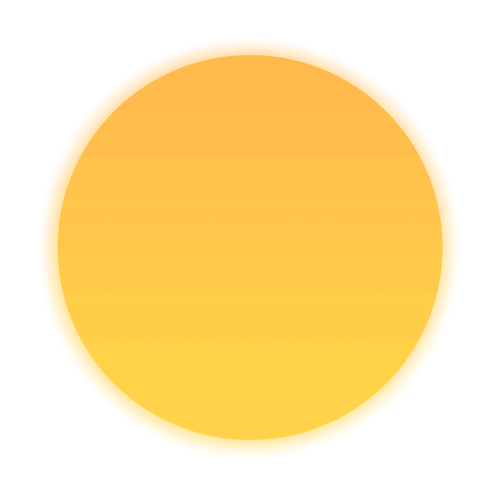
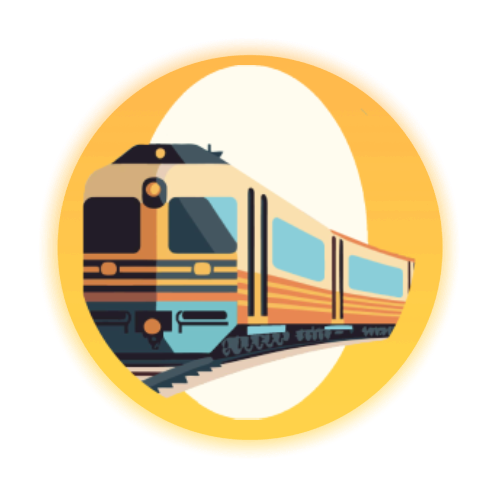
añadidos iconos finales, prototipo de diseño movil
me voy a volver loquito

diff --git a/estilos.css b/estilos.css
@@ -58,23 +58,6 @@ body{
 #header{
 	height:10%;
 }
-		
-		#webtitle{
-			display:block;
-			position:absolute;
-			margin-top:1.25%;
-			margin-left:5%;
-			float:left;
-			width:10%;
-			color:white;
-			text-align:center;
-			font-family:Lucida Console;
-			font-weight:600;
-		}
-		
-		#logotitle{
-			width:100px;
-		}
 
 		#metrobilbao{
 			display:flex;
@@ -196,7 +179,7 @@ body{
 		position:relative;
 		float:left;
 		width:25%;
-		margin-top:17%;
+		margin-top:15%;
 		margin-left:1%;
 		cursor:pointer;	
 	}
@@ -205,8 +188,8 @@ body{
 		position:relative;
 		float:left;
 		width:25%;
-		margin-top:5%;
-		margin-left:40%;
+		margin-top:0%;
+		margin-left:42%;
 		cursor:pointer;	
 	}
 
@@ -401,7 +384,7 @@ body{
 	#menudesplegable > img:nth-child(1){
 		position:relative;
 		margin-top:62.5%;
-		margin-left:0%;
+		margin-left:2.5%;
 		float:left;
 		width:33%;
 
@@ -412,7 +395,7 @@ body{
 		position:relative;
 		float:left;
 		margin-top:62.5%;
-		margin-left:6.5%;		
+		margin-left:2.5%;		
 		width:33%;
 
 		cursor:pointer;	
@@ -421,7 +404,8 @@ body{
 	#menudesplegable > img:nth-child(3){
 		position:relative;
 		float:left;
-		margin-left:19%;
+		margin-top:-2%;
+		margin-left:20%;
 		width:33%;
 
 		cursor:pointer;	
@@ -523,82 +507,59 @@ body{
 }
 
 #menu{
-	height:100%;
-	width:20%;
+	height:30%;
+	width:100%;
 	float:left;
 }
 
 	#roundmenu{
-		width:100%;
-		height:20%;
+		width:70%;
+		height:50%;
 		display:block;
 	}
 
 	#clickround{
 		float:left;
-		position:relative;
-		margin:10%;
-		margin-top:29%;
-		margin-left:2.5%;
-		width:45%;
+		width:15%;
+		margin-right:15%;
 		cursor:pointer;
-		z-index:5;
 	}
 
 	#menudesplegable{
-		position:absolute;
-		display:none;
-		width:20%;
-		height:10%;
-		z-index:4;
-	}
-
-	#menudesplegable > img:nth-child(1){
-		position:relative;
 		float:left;
-		width:25%;
-		margin-top:9.5%;
-		margin-left:7.5%;
-		cursor:pointer;	
+		width:70%;
+		height:50%;
+		
 	}
 
-	#menudesplegable > img:nth-child(2){
-		position:relative;
+	#menudesplegable img{
 		float:left;
-		width:25%;
-		margin-top:17%;
-		margin-left:1%;
-		cursor:pointer;	
-	}
-
-	#menudesplegable > img:nth-child(3){
 		position:relative;
-		float:left;
-		width:25%;
-		margin-top:5%;
-		margin-left:40%;
-		cursor:pointer;	
-	}
-
-	#roundmenu:hover #menudesplegable{
-		display:block;
-		animation-name:desplegar_menu_redondo;
-		animation-duration:0.5s;
+		margin-top:2.5%;
+		width:30%;
+		
 	}
 
 
 	#rectanglemenu{
-		height:70%;
+		height:45%;
 		width:auto;
+	}
+	
+	#rectanglemenu button{
+		height:100%;
+		float:left;
 	}
 	
 	#button1, #button2, #button3{
 		background:url("imagenes/rectangle_menu_night.png");
-		background-size: 100% 105%;
+		background-size: 125% 100%;
 		background-position:center;
 		background-repeat:no-repeat;
 		height:20%;
-		width:80%;
+		width:33%;
+		padding:0;
+		margin-left:0%;
 		border:none;
 		color:#fff;
 		font-family:Lucida Console;
@@ -626,16 +587,14 @@ body{
 	#page1, #page2, #page3{
 		display:none;		
 		background-image:url("imagenes/info_panel_night.png");
-		background-size:110% 120%;
+		background-size:105% 110%;
 		background-position:center;
 	}
 	
 	.page{
-		height:90%;
-		width:70%;
-		margin-left:-5%;
-		margin-top:1.25%;
-
+		height:60%;
+		width:100%;
+		margin:auto;
 		float:left;
 	}
 

diff --git a/javascript.js b/javascript.js
@@ -24,16 +24,6 @@ function showpage3(){
 	document.getElementById("page2").style.display = "none";
 	document.getElementById("page3").style.display = "block";
 }
-
-/*function show_round_menu(){
-	if(dp==0){
-		document.getElementById("menudesplegable").style.display = "block");
-		dp=1;
-	}else{
-		document.getElementById("menudesplegable").style.display = "none");
-		dp=0;
-	}
-}*/
 		
 
 function day_night(){
@@ -41,8 +31,8 @@ function day_night(){
 	if (nightmode == 1){
 		document.body.style.backgroundImage = "url('imagenes/index_background_day.gif')";
 		document.getElementById("clickround").src = "imagenes/round_menu_day.png";
-		document.getElementById("smallround1").src = "imagenes/round_menu_day.png";
-		document.getElementById("smallround2").src = "imagenes/round_menu_day.png";
+		document.getElementById("smallround1").src = "imagenes/round_menu_form_day.png";
+		document.getElementById("smallround2").src = "imagenes/round_menu_music_day.png";
 		document.getElementById("smallround3").src = "imagenes/round_menu_dn_day.png";
 		document.getElementById("button1").style.backgroundImage = "url('imagenes/rectangle_menu_day.png')";
 		document.getElementById("button2").style.backgroundImage = "url('imagenes/rectangle_menu_day.png')";
@@ -58,8 +48,8 @@ function day_night(){
 	}else{
 		document.body.style.backgroundImage = "url('imagenes/index_background_night.gif')";
 		document.getElementById("clickround").src = "imagenes/round_menu_night.png";
-		document.getElementById("smallround1").src = "imagenes/round_menu_night.png";
-		document.getElementById("smallround2").src = "imagenes/round_menu_night.png";
+		document.getElementById("smallround1").src = "imagenes/round_menu_form_night.png";
+		document.getElementById("smallround2").src = "imagenes/round_menu_music_night.png";
 		document.getElementById("smallround3").src = "imagenes/round_menu_dn_night.png";
 		document.getElementById("button1").style.backgroundImage = "url('imagenes/rectangle_menu_night.png')";
 		document.getElementById("button2").style.backgroundImage = "url('imagenes/rectangle_menu_night.png')";

diff --git a/index.html b/index.html
@@ -7,9 +7,6 @@
 </head>
 <body>
 <div id=header>
-	<div id=webtitle>
-		<img id=logotitle src="imagenes/logo.png"/>Metrobilbao
-	</div>
 	<div id=metrobilbao>
 		<div id=progressbarcontainer>
 			<div id=progressbar></div>
@@ -28,10 +25,10 @@
 <div id=main>
 	<div id=menu>
 		<div id=roundmenu onclick="showbackground()">
-			<img id=clickround onclick="show_round_menu()" class=brighter src="imagenes/round_menu_night.png" alt="Menú radial"/>
+			<img id=clickround class=brighter src="imagenes/round_menu_night.png" alt="Menú radial"/>
 			<div id=menudesplegable>
-				<img id=smallround1 class=brighter src="imagenes/round_menu_night.png" alt="Menú radial pequeño"/>
-				<img id=smallround2 class=brighter src="imagenes/round_menu_night.png" alt="Menú radial pequeño"/>
+				<img id=smallround1 class=brighter src="imagenes/round_menu_form_night.png" alt="Menú radial pequeño"/>
+				<img id=smallround2 class=brighter src="imagenes/round_menu_music_night.png" alt="Menú radial pequeño"/>
 				<img id=smallround3 class=brighter  onclick= "day_night()" src="imagenes/round_menu_dn_night.png" alt="Menú radial pequeño"/>
 			</div>
 		</div>
